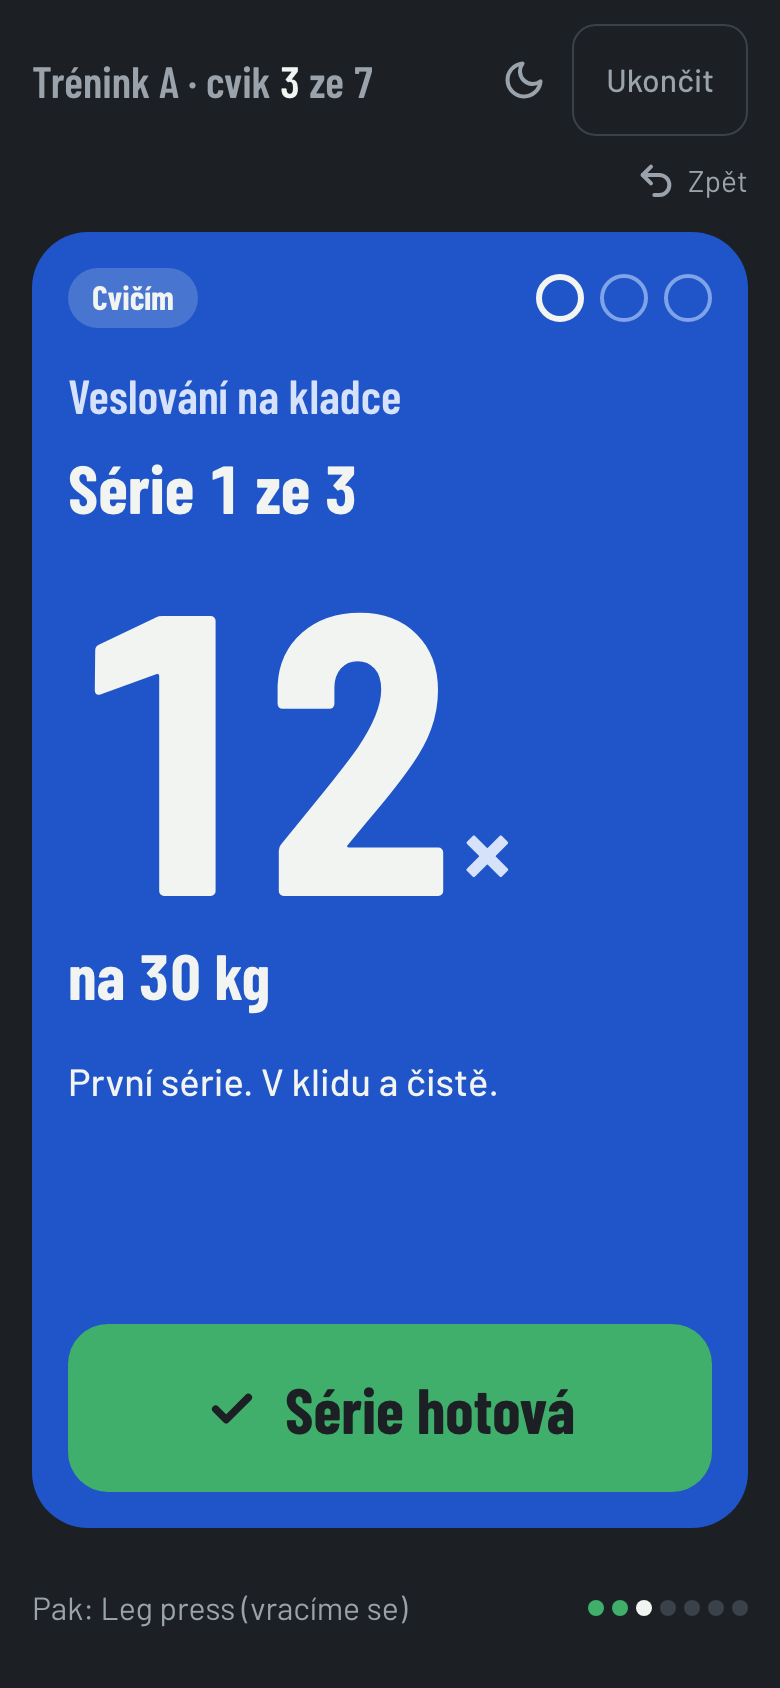
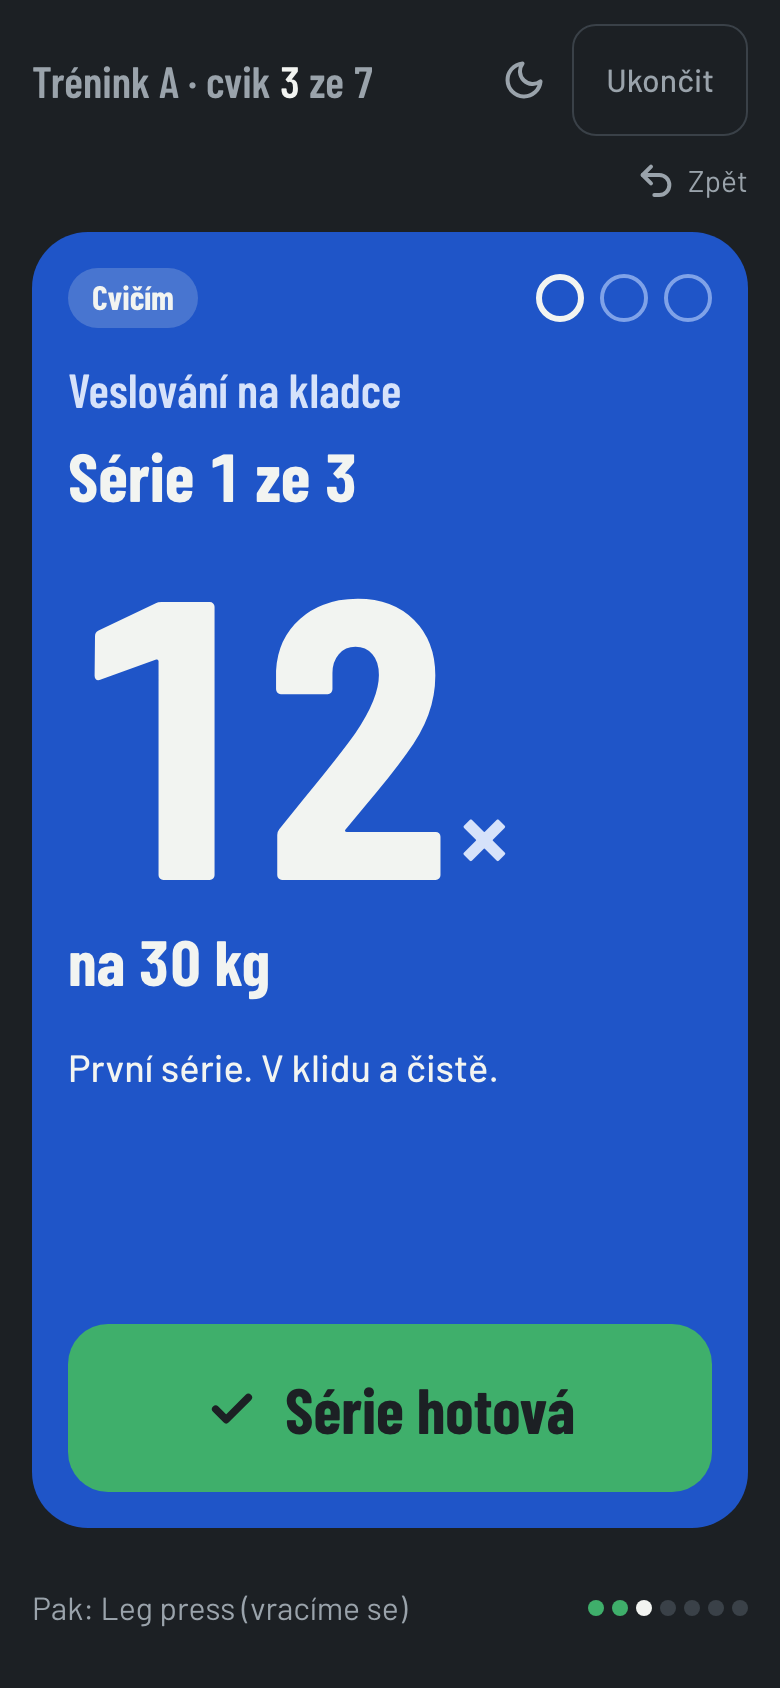
Redesign: tokeny noční posilovny, pohyb (rise, shine, burst) a animované postavy cviků

diff --git a/src/components/ExerciseFigure.tsx b/src/components/ExerciseFigure.tsx
@@ -1,0 +1,100 @@
+'use client';
+/**
+ * Animovaná postava cviku (nový design). Dvě pózy (začátek, konec pohybu), mezi nimi
+ * plynulý pohyb tam a zpět přes SVG <animate>, takže nic nepočítá JavaScript na každý snímek.
+ * Prefers-reduced-motion: postava stojí v polovině pohybu.
+ */
+import { useEffect, useState } from 'react';
+import type { FigureKind } from '@/domain/figure';
+
+type Pt = [number, number];
+type Pose = Record<'h' | 'n' | 'p' | 'k' | 'f' | 'e' | 'w', Pt>;
+type El = [tag: 'line' | 'rect' | 'circle', cls: string, attrs: Record<string, number | string>];
+interface Fig { s: Pose; e: Pose; eq: (q: Pose) => El[] }
+
+const line = (cls: string, x1: number, y1: number, x2: number, y2: number, extra: Record<string, number | string> = {}): El => ['line', cls, { x1, y1, x2, y2, ...extra }];
+const bench = (x1: number, x2: number, y: number, legs: number[]): El[] => [line('eq', x1, y, x2, y), ...legs.map((x) => line('eq', x, y, x, 140))];
+const stand: Pose = { h: [120, 30], n: [120, 47], p: [120, 92], k: [121, 116], f: [122, 140], e: [123, 70], w: [125, 94] };
+
+const FIGS: Record<FigureKind, Fig> = {
+  lat: { eq: (q) => [...bench(70, 140, 112, [80]), line('acc-s', q.w[0], 0, q.w[0], q.w[1], { opacity: 0.5 }), ['rect', 'acc', { x: q.w[0] - 22, y: q.w[1] - 4, width: 44, height: 8, rx: 4 }]],
+    s: { h: [104, 44], n: [106, 62], p: [110, 108], k: [145, 110], f: [150, 140], e: [116, 34], w: [122, 10] },
+    e: { h: [100, 46], n: [104, 64], p: [110, 108], k: [145, 110], f: [150, 140], e: [92, 92], w: [116, 68] } },
+  sp: { eq: (q) => [...bench(80, 140, 112, [86]), ['rect', 'acc', { x: q.w[0] - 12, y: q.w[1] - 5, width: 24, height: 10, rx: 4 }]],
+    s: { h: [108, 44], n: [108, 62], p: [110, 108], k: [145, 110], f: [150, 140], e: [128, 80], w: [124, 56] },
+    e: { h: [108, 44], n: [108, 62], p: [110, 108], k: [145, 110], f: [150, 140], e: [120, 40], w: [114, 14] } },
+  lp: { eq: (q) => [line('eq', 28, 80, 86, 114), line('eq', 60, 104, 60, 140), line('acc-s', q.f[0] + 8, q.f[1] - 26, q.f[0] + 8, q.f[1] + 22, { 'stroke-width': 9 }), line('eq', q.f[0] + 8, q.f[1], 230, q.f[1] - 20, { opacity: 0.5 })],
+    s: { h: [34, 62], n: [46, 76], p: [80, 104], k: [104, 70], f: [130, 88], e: [64, 98], w: [80, 108] },
+    e: { h: [34, 62], n: [46, 76], p: [80, 104], k: [124, 96], f: [168, 90], e: [64, 98], w: [80, 108] } },
+  lc: { eq: (q) => [...bench(36, 196, 110, [60, 176]), ['circle', 'acc', { cx: q.f[0], cy: q.f[1] - 6, r: 9 }]],
+    s: { h: [40, 90], n: [58, 96], p: [118, 98], k: [160, 99], f: [202, 99], e: [66, 112], w: [84, 110] },
+    e: { h: [40, 90], n: [58, 96], p: [118, 98], k: [160, 99], f: [178, 56], e: [66, 112], w: [84, 110] } },
+  yr: { eq: (q) => [line('eq', 72, 132, 150, 66), line('eq', 96, 112, 96, 140), ['rect', 'acc', { x: q.w[0] - 9, y: q.w[1] - 5, width: 18, height: 10, rx: 4 }]],
+    s: { h: [150, 54], n: [138, 66], p: [86, 112], k: [64, 128], f: [62, 140], e: [144, 92], w: [146, 116] },
+    e: { h: [150, 54], n: [138, 66], p: [86, 112], k: [64, 128], f: [62, 140], e: [162, 50], w: [184, 32] } },
+  row: { eq: (q) => [line('eq', 70, 122, 130, 122), line('eq', 176, 96, 176, 134), line('acc-s', q.w[0], q.w[1], 216, 92, { opacity: 0.6 }), ['circle', 'acc', { cx: q.w[0], cy: q.w[1], r: 7 }]],
+    s: { h: [104, 52], n: [100, 70], p: [96, 116], k: [134, 98], f: [170, 116], e: [126, 80], w: [152, 88] },
+    e: { h: [96, 54], n: [94, 72], p: [96, 116], k: [134, 98], f: [170, 116], e: [76, 88], w: [106, 94] } },
+  pl: { eq: () => [],
+    s: { h: [176, 84], n: [160, 96], p: [100, 102], k: [62, 108], f: [26, 116], e: [160, 126], w: [186, 128] },
+    e: { h: [176, 86], n: [160, 98], p: [100, 108], k: [62, 111], f: [26, 116], e: [160, 126], w: [186, 128] } },
+  tr: { eq: (q) => [['circle', 'acc', { cx: q.w[0], cy: q.w[1], r: 11 }]],
+    s: { h: [110, 62], n: [110, 80], p: [112, 126], k: [148, 118], f: [162, 136], e: [132, 96], w: [146, 90] },
+    e: { h: [106, 62], n: [108, 80], p: [112, 126], k: [148, 118], f: [162, 136], e: [88, 96], w: [74, 90] } },
+  po: { eq: (q) => [line('eq', 30, 120, 210, 120), ['circle', 'acc', { cx: q.w[0], cy: q.w[1], r: 11 }]],
+    s: { h: [50, 102], n: [68, 108], p: [130, 110], k: [160, 84], f: [186, 112], e: [72, 82], w: [74, 58] },
+    e: { h: [50, 102], n: [68, 108], p: [130, 110], k: [160, 84], f: [186, 112], e: [46, 98], w: [22, 100] } },
+  bp: { eq: (q) => [...bench(56, 160, 112, [70, 150]), line('acc-s', q.w[0] - 2, q.w[1] - 14, q.w[0] - 2, q.w[1] + 14, { 'stroke-width': 7 })],
+    s: { h: [70, 98], n: [86, 103], p: [140, 104], k: [176, 106], f: [184, 140], e: [104, 122], w: [100, 92] },
+    e: { h: [70, 98], n: [86, 103], p: [140, 104], k: [176, 106], f: [184, 140], e: [94, 74], w: [92, 48] } },
+  cu: { eq: (q) => [['rect', 'acc', { x: q.w[0] - 6, y: q.w[1] - 10, width: 12, height: 20, rx: 4 }]],
+    s: { ...stand, e: [124, 72], w: [126, 98] },
+    e: { ...stand, e: [124, 72], w: [144, 56] } },
+  sq: { eq: (q) => [line('acc-s', q.w[0] - 24, q.w[1], q.w[0] + 24, q.w[1], { 'stroke-width': 7 })],
+    s: { h: [120, 30], n: [120, 47], p: [120, 92], k: [121, 116], f: [122, 140], e: [134, 58], w: [126, 48] },
+    e: { h: [114, 54], n: [110, 70], p: [96, 112], k: [128, 116], f: [122, 140], e: [124, 80], w: [116, 71] } },
+  stand: { eq: () => [], s: stand, e: { ...stand, h: [120, 31], e: [126, 69], w: [130, 92] } },
+};
+
+const fmt = (p: Pt) => `${p[0]},${p[1]}`;
+const DUR = '2.8s';
+const SPLINE = { calcMode: 'spline', keyTimes: '0;0.5;1', keySplines: '0.45 0 0.55 1;0.45 0 0.55 1', dur: DUR, repeatCount: 'indefinite' } as const;
+const mid = (a: Pose, b: Pose): Pose => Object.fromEntries(Object.keys(a).map((k) => [k, [(a[k as keyof Pose][0] + b[k as keyof Pose][0]) / 2, (a[k as keyof Pose][1] + b[k as keyof Pose][1]) / 2]])) as Pose;
+
+function Anim({ attr, from, to, still }: { attr: string; from: string | number; to: string | number; still: boolean }) {
+  if (still || String(from) === String(to)) return null;
+  return <animate attributeName={attr} values={`${from};${to};${from}`} {...SPLINE} />;
+}
+
+function Shape({ a, b, still }: { a: El; b: El; still: boolean }) {
+  const [tag, cls, attrs] = a;
+  const Tag = tag;
+  return (
+    <Tag className={cls} {...attrs}>
+      {Object.keys(attrs).map((k) => <Anim key={k} attr={k} from={attrs[k]} to={b[2][k]} still={still} />)}
+    </Tag>
+  );
+}
+
+export function ExerciseFigure({ kind, className = '', label }: { kind: FigureKind; className?: string; label?: string }) {
+  const [still, setStill] = useState(false);
+  useEffect(() => { setStill(matchMedia('(prefers-reduced-motion: reduce)').matches); }, []);
+  const F = FIGS[kind] ?? FIGS.stand;
+  const s = still ? mid(F.s, F.e) : F.s;
+  const e = still ? s : F.e;
+  const legs = (q: Pose) => `${fmt(q.n)} ${fmt(q.p)} ${fmt(q.k)} ${fmt(q.f)}`;
+  const arms = (q: Pose) => `${fmt(q.n)} ${fmt(q.e)} ${fmt(q.w)}`;
+  const eqS = F.eq(s), eqE = F.eq(e);
+  return (
+    <svg className={`fig ${className}`} viewBox="0 0 240 150" preserveAspectRatio="xMidYMid meet" role={label ? 'img' : undefined} aria-label={label} aria-hidden={label ? undefined : true} data-figure={kind}>
+      <line className="floor" x1="10" y1="141" x2="230" y2="141" />
+      {eqS.map((el, i) => <Shape key={i} a={el} b={eqE[i]} still={still} />)}
+      <polyline className="body" points={legs(s)}><Anim attr="points" from={legs(s)} to={legs(e)} still={still} /></polyline>
+      <polyline className="body" points={arms(s)}><Anim attr="points" from={arms(s)} to={arms(e)} still={still} /></polyline>
+      <circle className="head" cx={s.h[0]} cy={s.h[1]} r="12">
+        <Anim attr="cx" from={s.h[0]} to={e.h[0]} still={still} />
+        <Anim attr="cy" from={s.h[1]} to={e.h[1]} still={still} />
+      </circle>
+    </svg>
+  );
+}

diff --git a/src/app/globals.css b/src/app/globals.css
@@ -1,23 +1,28 @@
 @import "tailwindcss";
 
 @theme {
-  --color-guma: #1C2024;
-  --color-grafit: #2A3036;
-  --color-linka: #3A4148;
+  /* Redesign 11/2026: tmavší „noční posilovna“, světlo vychází z akce (modrá) a z hotového (zelená). */
+  --color-guma: #111418;
+  --color-grafit: #1B1F24;
+  --color-grafit-2: #242A31;
+  --color-hrana: #262C33;
+  --color-linka: #323A42;
   --color-krida: #F2F4F1;
   --color-ocel: #9AA3AB;
-  --color-modra-akce: #2F6FE4;
+  --color-modra-akce: #3B7BFF;
+  --color-modra-text: #9DBBFF;
   --color-modra-karta: #1F55C8;
   --color-modra-svetla: #D6E2FA;
   --color-zluta: #E3B23C;
   --color-zluta-tmava: #3B2E0C;
-  --color-splneno: #3FAF6B;
+  --color-splneno: #34C77B;
+  --color-splneno-svetla: #7BE3A9;
   --font-display: var(--font-barlow-condensed), 'Barlow Condensed', sans-serif;
   --font-sans: var(--font-barlow), 'Barlow', system-ui, sans-serif;
 }
 
 html, body {
-  background: var(--color-guma);
+  background: var(--color-guma) radial-gradient(90% 40% at 50% -10%, #3B7BFF1f, transparent 70%) no-repeat;
   color: var(--color-krida);
   font-family: var(--font-sans);
   -webkit-tap-highlight-color: transparent;
@@ -43,3 +48,47 @@ html, body {
 
 .safe-top { padding-top: max(12px, env(safe-area-inset-top)); }
 .safe-bottom { padding-bottom: max(12px, env(safe-area-inset-bottom)); }
+
+/* --- Redesign 11/2026: postavy, světlo, pohyb --- */
+.fig { display: block; width: 100%; height: 100%; }
+.fig .body { stroke: var(--color-krida); stroke-width: 9; stroke-linecap: round; stroke-linejoin: round; fill: none; }
+.fig .head { fill: var(--color-krida); }
+.fig .eq { stroke: #5B6670; stroke-width: 5; stroke-linecap: round; fill: none; }
+.fig .acc { fill: var(--color-modra-akce); }
+.fig .acc-s { stroke: var(--color-modra-akce); stroke-width: 5; stroke-linecap: round; fill: none; }
+.fig .floor { stroke: #2B323A; stroke-width: 3; stroke-linecap: round; }
+.fig-mini .body { stroke-width: 12; }
+.fig-mini .eq, .fig-mini .floor { opacity: .6; }
+
+.stage { background: radial-gradient(120% 90% at 50% 30%, #253656, #161A1F 75%); }
+.glow-card { background: linear-gradient(170deg, #1F2B44, var(--color-grafit) 60%); border: 1px solid #2F4066; box-shadow: 0 20px 50px -20px #3B7BFF40; }
+.hero-card { background: linear-gradient(160deg, #22324F 0%, var(--color-grafit) 55%); border: 1px solid #2E3D58; }
+.btn-glow { background: linear-gradient(180deg, #4C88FF, var(--color-modra-akce)); box-shadow: 0 10px 30px -8px #3B7BFF66, inset 0 1px 0 #ffffff33; }
+.btn-done { background: linear-gradient(180deg, #45D68A, var(--color-splneno)); box-shadow: 0 10px 30px -8px #34C77B66; }
+.text-grad { background: linear-gradient(90deg, var(--color-splneno), var(--color-splneno-svetla)); -webkit-background-clip: text; background-clip: text; color: transparent; }
+.bar-glow { background: linear-gradient(90deg, var(--color-splneno), var(--color-splneno-svetla)); box-shadow: 0 0 12px #34C77B55; }
+
+.burst { position: absolute; inset: 0; pointer-events: none; overflow: visible; }
+.burst i { position: absolute; left: 50%; top: 50%; width: 8px; height: 8px; border-radius: 2px; opacity: 0; }
+
+@media (prefers-reduced-motion: no-preference) {
+  .rise { animation: rise .7s cubic-bezier(.22, 1, .36, 1) both; animation-delay: calc(var(--i, 0) * 90ms); }
+  @keyframes rise { from { opacity: 0; transform: translateY(18px); } }
+  .enter { animation: enter .55s cubic-bezier(.22, 1, .36, 1) both; }
+  @keyframes enter { from { opacity: 0; transform: translateY(14px) scale(.98); } }
+  .press { transition: transform .15s cubic-bezier(.22, 1, .36, 1), background .25s; }
+  .press:active { transform: scale(.97); }
+  .shine { position: relative; overflow: hidden; }
+  .shine::after { content: ""; position: absolute; inset: 0; pointer-events: none; background: linear-gradient(110deg, transparent 30%, #ffffff40 50%, transparent 70%); transform: translateX(-120%); animation: shine 3.2s 1.2s infinite; }
+  @keyframes shine { 0%, 60% { transform: translateX(-120%); } 85%, 100% { transform: translateX(120%); } }
+  .pulse-dot { animation: pulse 2s infinite; }
+  @keyframes pulse { 0% { box-shadow: 0 0 0 0 #34C77B66; } 70%, 100% { box-shadow: 0 0 0 8px transparent; } }
+  .burst i { animation: fly .8s cubic-bezier(.22, 1, .36, 1) forwards; }
+  @keyframes fly { 0% { opacity: 1; } 100% { transform: translate(var(--x), var(--y)) rotate(var(--r)); opacity: 0; } }
+  .grow { transform-origin: left; animation: grow .9s cubic-bezier(.22, 1, .36, 1) both; animation-delay: calc(.3s + var(--d, 0) * 80ms); }
+  @keyframes grow { from { transform: scaleX(0); } }
+  .ring-fg { stroke-dasharray: 302; animation: ring 1.1s cubic-bezier(.22, 1, .36, 1) .2s both; }
+  @keyframes ring { from { stroke-dashoffset: 302; } to { stroke-dashoffset: 0; } }
+  .ring-ck { stroke-dasharray: 60; animation: ck .5s cubic-bezier(.22, 1, .36, 1) 1.1s both; }
+  @keyframes ck { from { stroke-dashoffset: 60; } to { stroke-dashoffset: 0; } }
+}

diff --git a/src/components/charts/TimeChart.tsx b/src/components/charts/TimeChart.tsx
@@ -5,7 +5,7 @@ import { shortDate } from '@/domain/dates';
 
 export interface Point { date: string; value: number; detail?: string }
 
-const INK = '#F2F4F1', MUTED = '#9AA3AB', GRID = '#2A3036', DATA = '#2F6FE4';
+const INK = '#F2F4F1', MUTED = '#9AA3AB', GRID = '#1B1F24', DATA = '#3B7BFF';
 
 /**
  * Jedna série v čase: čára 2 px, body ≥ 8 px (jeden bod = jeden trénink), tiché osy a mřížka,
@@ -30,14 +30,14 @@ export function TimeChart({ points, unit, baseline, record, label }: {
             {record && <ReferenceLine y={record.value} stroke={GRID} label={{ value: record.label, position: 'insideTopLeft', fill: INK, fontSize: 12 }} />}
             <Tooltip
               cursor={{ stroke: MUTED, strokeWidth: 1 }}
-              contentStyle={{ background: '#2A3036', border: '1px solid #3A4148', borderRadius: 12, color: INK }}
+              contentStyle={{ background: '#1B1F24', border: '1px solid #323A42', borderRadius: 12, color: INK }}
               labelStyle={{ color: MUTED }}
               labelFormatter={(d) => shortDate(String(d))}
               formatter={(v, _n, item) => [`${fmtNum(Number(v), 1)} ${unit}${(item.payload as Point).detail ? ` · ${(item.payload as Point).detail}` : ''}`, '']}
               separator=""
             />
             <Line type="monotone" dataKey="value" stroke={DATA} strokeWidth={2} isAnimationActive={false}
-              dot={{ r: 5, fill: DATA, stroke: '#1C2024', strokeWidth: 2 }} activeDot={{ r: 7, fill: DATA, stroke: INK, strokeWidth: 2 }} />
+              dot={{ r: 5, fill: DATA, stroke: '#111418', strokeWidth: 2 }} activeDot={{ r: 7, fill: DATA, stroke: INK, strokeWidth: 2 }} />
           </LineChart>
         </ResponsiveContainer>
       </div>

diff --git a/src/domain/figure.ts b/src/domain/figure.ts
@@ -1,0 +1,28 @@
+/**
+ * Animovaná postava cviku (nový design): podle názvu a id cviku vybere pohybový vzor.
+ * Vzorů je pár, pokrývají běžné cviky z posilovny; neznámý cvik dostane klidnou postavu.
+ */
+import { normalizeName } from '@/lib/normalize';
+
+export type FigureKind = 'lat' | 'po' | 'tr' | 'lp' | 'sq' | 'lc' | 'sp' | 'yr' | 'row' | 'pl' | 'bp' | 'cu' | 'stand';
+
+const RULES: [FigureKind, RegExp][] = [
+  ['po', /pullover|pretahovani/],
+  ['tr', /rotation|rotace|twist|russian/],
+  ['lat', /pulldown|pull ?up|chin ?up|shyb|stahovani|horni kladk|lat /],
+  ['lp', /leg press|legpress/],
+  ['lc', /leg curl|zakopavani|hamstring curl|lying leg curls|seated leg curl/],
+  ['sp', /shoulder press|overhead|military|nad hlavu|tlaky? na ramena|arnold/],
+  ['yr', /raise|upazovani|predpazovani|rozpazovani|y raise/],
+  ['row', /row|veslovani|pritah/],
+  ['pl', /plank|prkno/],
+  ['bp', /bench|chest press|tlak na prsa|benchpress|kliky|push ?up/],
+  ['cu', /curl|bicep|zdvih/],
+  ['sq', /squat|drep|lunge|vypad|deadlift|mrtvy tah|leg extension|predkopavani|hip thrust|glute/],
+];
+
+export function figureFor(name: string, exerciseId = ''): FigureKind {
+  const n = ` ${normalizeName(`${name} ${exerciseId.replace(/[_-]/g, ' ')}`)} `;
+  for (const [k, re] of RULES) if (re.test(n)) return k;
+  return 'stand';
+}

diff --git a/src/domain/figure.test.ts b/src/domain/figure.test.ts
@@ -1,0 +1,22 @@
+import { describe, expect, it } from 'vitest';
+import { figureFor } from './figure';
+
+describe('Postava cviku podle názvu', () => {
+  it.each([
+    ['Lat pulldown - menší nástavec', 'lat'],
+    ['Lying Medicine Ball Pullover', 'po'],
+    ['Seated Thoracic Rotation with Medicine Ball', 'tr'],
+    ['Shoulder press DB', 'sp'],
+    ['Leg press', 'lp'],
+    ['Zakopávání na stroji', 'lc'],
+    ['Dumbbell Y Raise on Incline Bench', 'yr'],
+    ['Seated cable row - V adapter', 'row'],
+    ['Plank', 'pl'],
+    ['Tlak na prsa', 'bp'],
+    ['Přítahy horní kladky', 'lat'],
+    ['Dřep s osou', 'sq'],
+    ['Bicepsový zdvih', 'cu'],
+    ['Rotoped', 'stand'],
+  ])('„%s“ → %s', (n, k) => expect(figureFor(n)).toBe(k));
+  it('pozná cvik i podle id z knihovny', () => expect(figureFor('Veslo', 'Seated_Cable_Rows')).toBe('row'));
+});

diff --git a/src/app/layout.tsx b/src/app/layout.tsx
@@ -5,7 +5,7 @@ import { ClientBoot } from '@/components/ClientBoot';
 import './globals.css';
 
 const barlow = Barlow({ subsets: ['latin', 'latin-ext'], weight: ['400', '500', '600', '700'], variable: '--font-barlow' });
-const condensed = Barlow_Condensed({ subsets: ['latin', 'latin-ext'], weight: ['500', '600', '700'], variable: '--font-barlow-condensed' });
+const condensed = Barlow_Condensed({ subsets: ['latin', 'latin-ext'], weight: ['500', '600', '700', '800'], variable: '--font-barlow-condensed' });
 
 export const metadata: Metadata = {
   title: t('app.name'),
@@ -19,7 +19,7 @@ export const viewport: Viewport = {
   width: 'device-width',
   initialScale: 1,
   viewportFit: 'cover',
-  themeColor: '#1C2024',
+  themeColor: '#111418',
 };
 
 export default function RootLayout({ children }: { children: React.ReactNode }) {

diff --git a/src/components/charts/Sparkline.tsx b/src/components/charts/Sparkline.tsx
@@ -7,8 +7,8 @@ export function Sparkline({ values, width = 72, height = 28 }: { values: number[
   const last = pts[pts.length - 1];
   return (
     <svg width={width} height={height} aria-hidden="true">
-      <polyline points={pts.map((p) => p.join(',')).join(' ')} fill="none" stroke="#2F6FE4" strokeWidth={2} strokeLinejoin="round" strokeLinecap="round" />
-      <circle cx={last[0]} cy={last[1]} r={3} fill="#2F6FE4" stroke="#1C2024" strokeWidth={2} />
+      <polyline points={pts.map((p) => p.join(',')).join(' ')} fill="none" stroke="#3B7BFF" strokeWidth={2} strokeLinejoin="round" strokeLinecap="round" />
+      <circle cx={last[0]} cy={last[1]} r={3} fill="#3B7BFF" stroke="#111418" strokeWidth={2} />
     </svg>
   );
 }

diff --git a/src/app/progres/mereni/page.tsx b/src/app/progres/mereni/page.tsx
@@ -53,7 +53,7 @@ export default function MeasurementsPage() {
       </Card>
 
       {weights.length >= 2 && (
-        <section className="mt-5 rounded-[20px] bg-[#1C2024] py-3">
+        <section className="mt-5 rounded-[20px] bg-[#111418] py-3">
           <h2 className="px-3 text-[17px] font-semibold">{t('mereni.graf')}</h2>
           <TimeChart points={weights} unit={t('common.kg')} label={t('mereni.graf')} />
         </section>

diff --git a/src/app/manifest.ts b/src/app/manifest.ts
@@ -11,8 +11,8 @@ export default function manifest(): MetadataRoute.Manifest {
     scope: '/',
     display: 'standalone',
     orientation: 'portrait',
-    background_color: '#1C2024',
-    theme_color: '#1C2024',
+    background_color: '#111418',
+    theme_color: '#111418',
     icons: [
       { src: '/icons/192', sizes: '192x192', type: 'image/png' },
       { src: '/icons/512', sizes: '512x512', type: 'image/png' },
